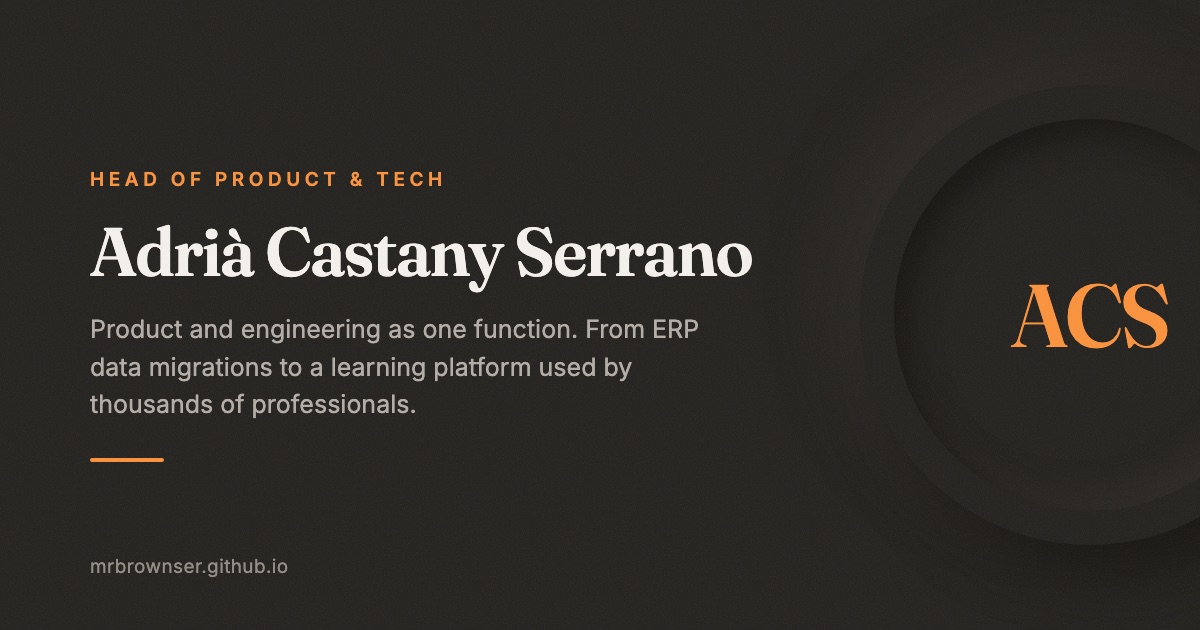
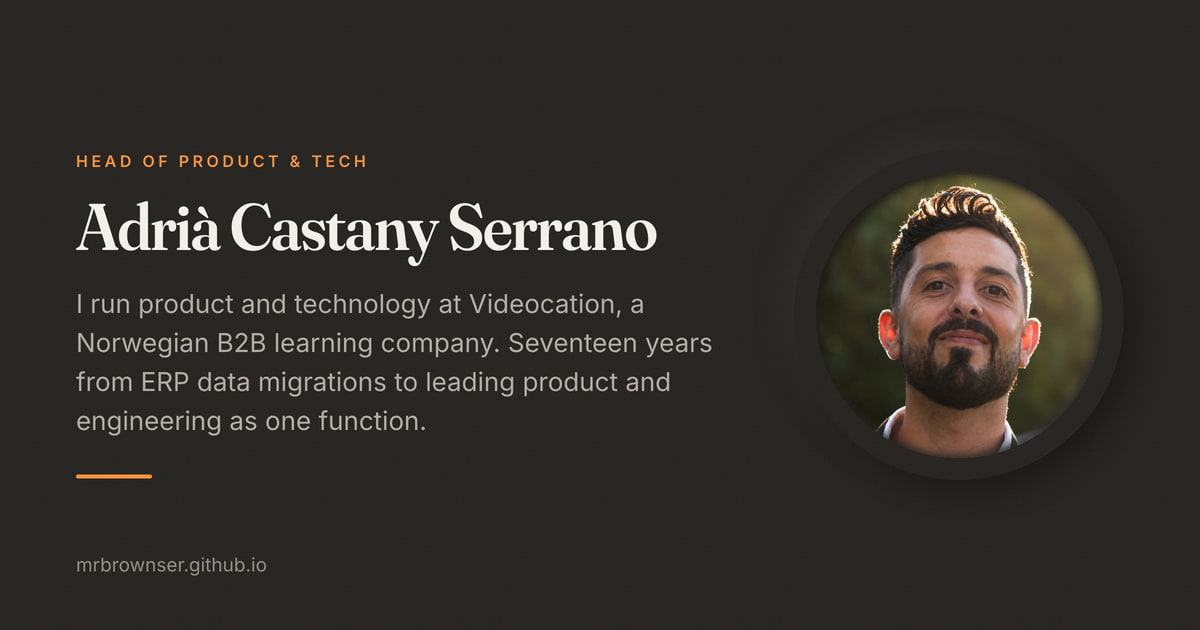
fix: put the portrait on the share card and stop it drifting (#11)
* fix: put the portrait on the share card and stop it drifting

The card still showed the "ACS" monogram disc that b882ee4 removed from the
hero months ago, and it made a claim the page no longer makes. It drifted
because it was a hand-made JPEG: nothing connected it to site.json, so nothing
broke when the site moved on.

So the card is a build product now. scripts/generate-og.mjs takes every string
from site.json, the face from the lossless original at the avatar's own crop,
and the palette from global.css, then refuses to write a card over the 300KB
WhatsApp accepts. Chrome does the typesetting because sharp's freetype has no
brotli and cannot read the woff2 that Fraunces and Inter ship as.

The head was missing the tags that decide how the card is laid out and
attributed — og:site_name, og:locale, the og:image dimensions, type and alt,
the profile:* trio the declared og:type="profile" implies, and the Twitter
handles — all now read from site.json, with the image dimensions shared between
the tags and the generator so the two cannot disagree. personSchema had the
same gap as the card: no portrait.

* ci: rebuild the share card on every deploy

The card bakes in the career year count, so the monthly cron that keeps the
page from claiming last year's number could not reach it — a committed JPEG
would have gone on saying "Seventeen" while the page said "Eighteen" from
1 October. Documenting an annual rerun is the same mechanism that let the
[…]

diff --git a/src/types/siteContent.ts b/src/types/siteContent.ts
@@ -29,10 +29,24 @@ export interface Principle {
 export interface SiteContent {
   meta: {
     siteUrl: string;
+    siteName: string;
     pageTitle: string;
     pageDescription: string;
+    /** Site-relative; the layout absolutises it, and scripts/generate-og.mjs writes it. */
     ogImage: string;
+    ogImageAlt: string;
+    ogImageWidth: number;
+    ogImageHeight: number;
+    ogImageType: string;
+    /** Document language, for `<html lang>`. */
     locale: string;
+    /** Open Graph wants language_TERRITORY, which `lang` must not carry. */
+    ogLocale: string;
+    profile: {
+      firstName: string;
+      lastName: string;
+      username: string;
+    };
   };
   brand: { navInitials: string };
   hero: {

diff --git a/src/assets/README.md b/src/assets/README.md
@@ -16,3 +16,28 @@ Regenerating the avatar after changing the crop (sharp ships with Astro):
       .resize(864, 864)
       .jpeg({quality:92, mozjpeg:true, chromaSubsampling:'4:4:4'})
       .toFile('src/assets/profile.jpg')"
+
+## The share card
+
+`public/og.jpg` is generated, not hand-made — it showed the retired "ACS"
+monogram for months because nothing tied it to the site. Rebuild it with:
+
+    node scripts/generate-og.mjs
+
+Every string on it comes from `site.json` (`meta.pageDescription`, `hero.name`,
+`hero.tagline`), the face is the same crop as the avatar above taken from
+`profile-original.png`, and the palette is the `.dark` block of `global.css`.
+The script fails rather than writing a card over the 300KB WhatsApp accepts.
+
+Rerun it after changing `meta.pageDescription`, `hero.name`, `hero.tagline`, the
+avatar crop, or `meta.ogImageWidth` / `meta.ogImageHeight`, so the committed copy
+matches what you are looking at locally.
+
+The `{{Years}}` count baked into the card is not your problem: the deploy
+workflow regenerates the card before every build, so the deployed one always
+agrees with the page even when the committed copy has gone a year stale.
+
+Needs Node 22.18+ (it imports `years.ts` directly for that count) and a
+Chromium-family browser, which does the typesetting because sharp's freetype has
+no brotli and so cannot read the woff2 files Fraunces and Inter ship as. Set
+`CHROME_PATH` if no browser is found.

diff --git a/CLAUDE.md b/CLAUDE.md
@@ -61,10 +61,13 @@ entirely there, including mid-session if the preference changes.
 no custom response headers, no runtime content negotiation. If a solution needs
 any of those, say so instead of building something that cannot deploy.
 
-**`public/og.jpg` is a hand-made asset.** Regenerate it from
-`src/assets/profile-original.png` (the lossless original) rather than from an
-existing JPEG — see `src/assets/README.md`. It has drifted from the live site
-before, so keep the regeneration command documented.
+**`public/og.jpg` is a build product.** `node scripts/generate-og.mjs` rebuilds
+it — every string from `site.json`, the portrait from
+`src/assets/profile-original.png` (the lossless original), the palette from the
+`.dark` tokens. Never touch it by hand or rebuild it from an existing JPEG: it
+showed a retired monogram for months precisely because nothing tied it to the
+site. The deploy workflow regenerates it before every build, which is what stops
+the `{{Years}}` count baked into the card from contradicting the page.
 
 ## Conventions
 
